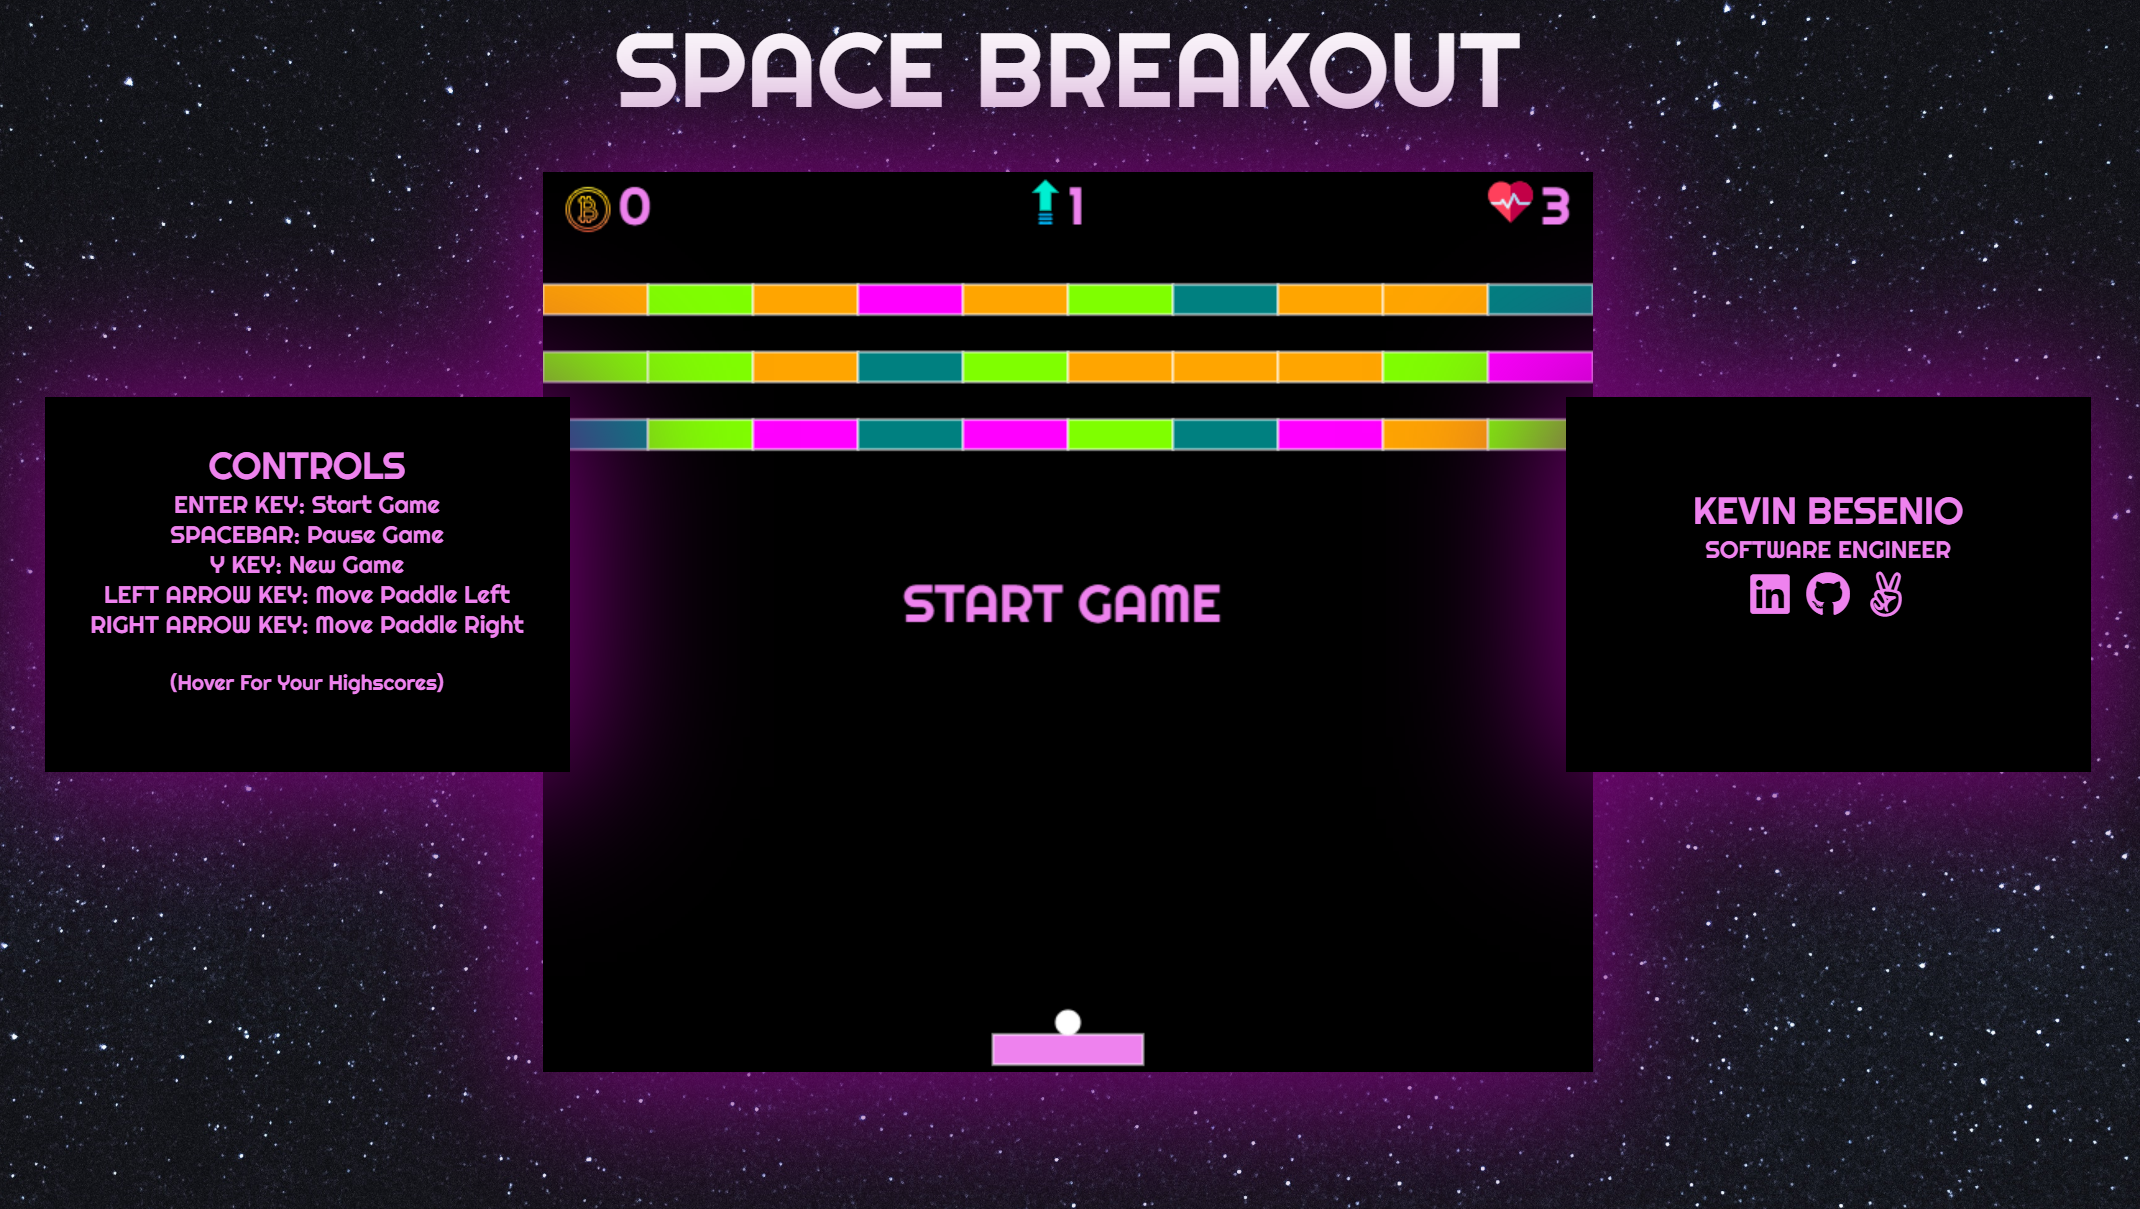
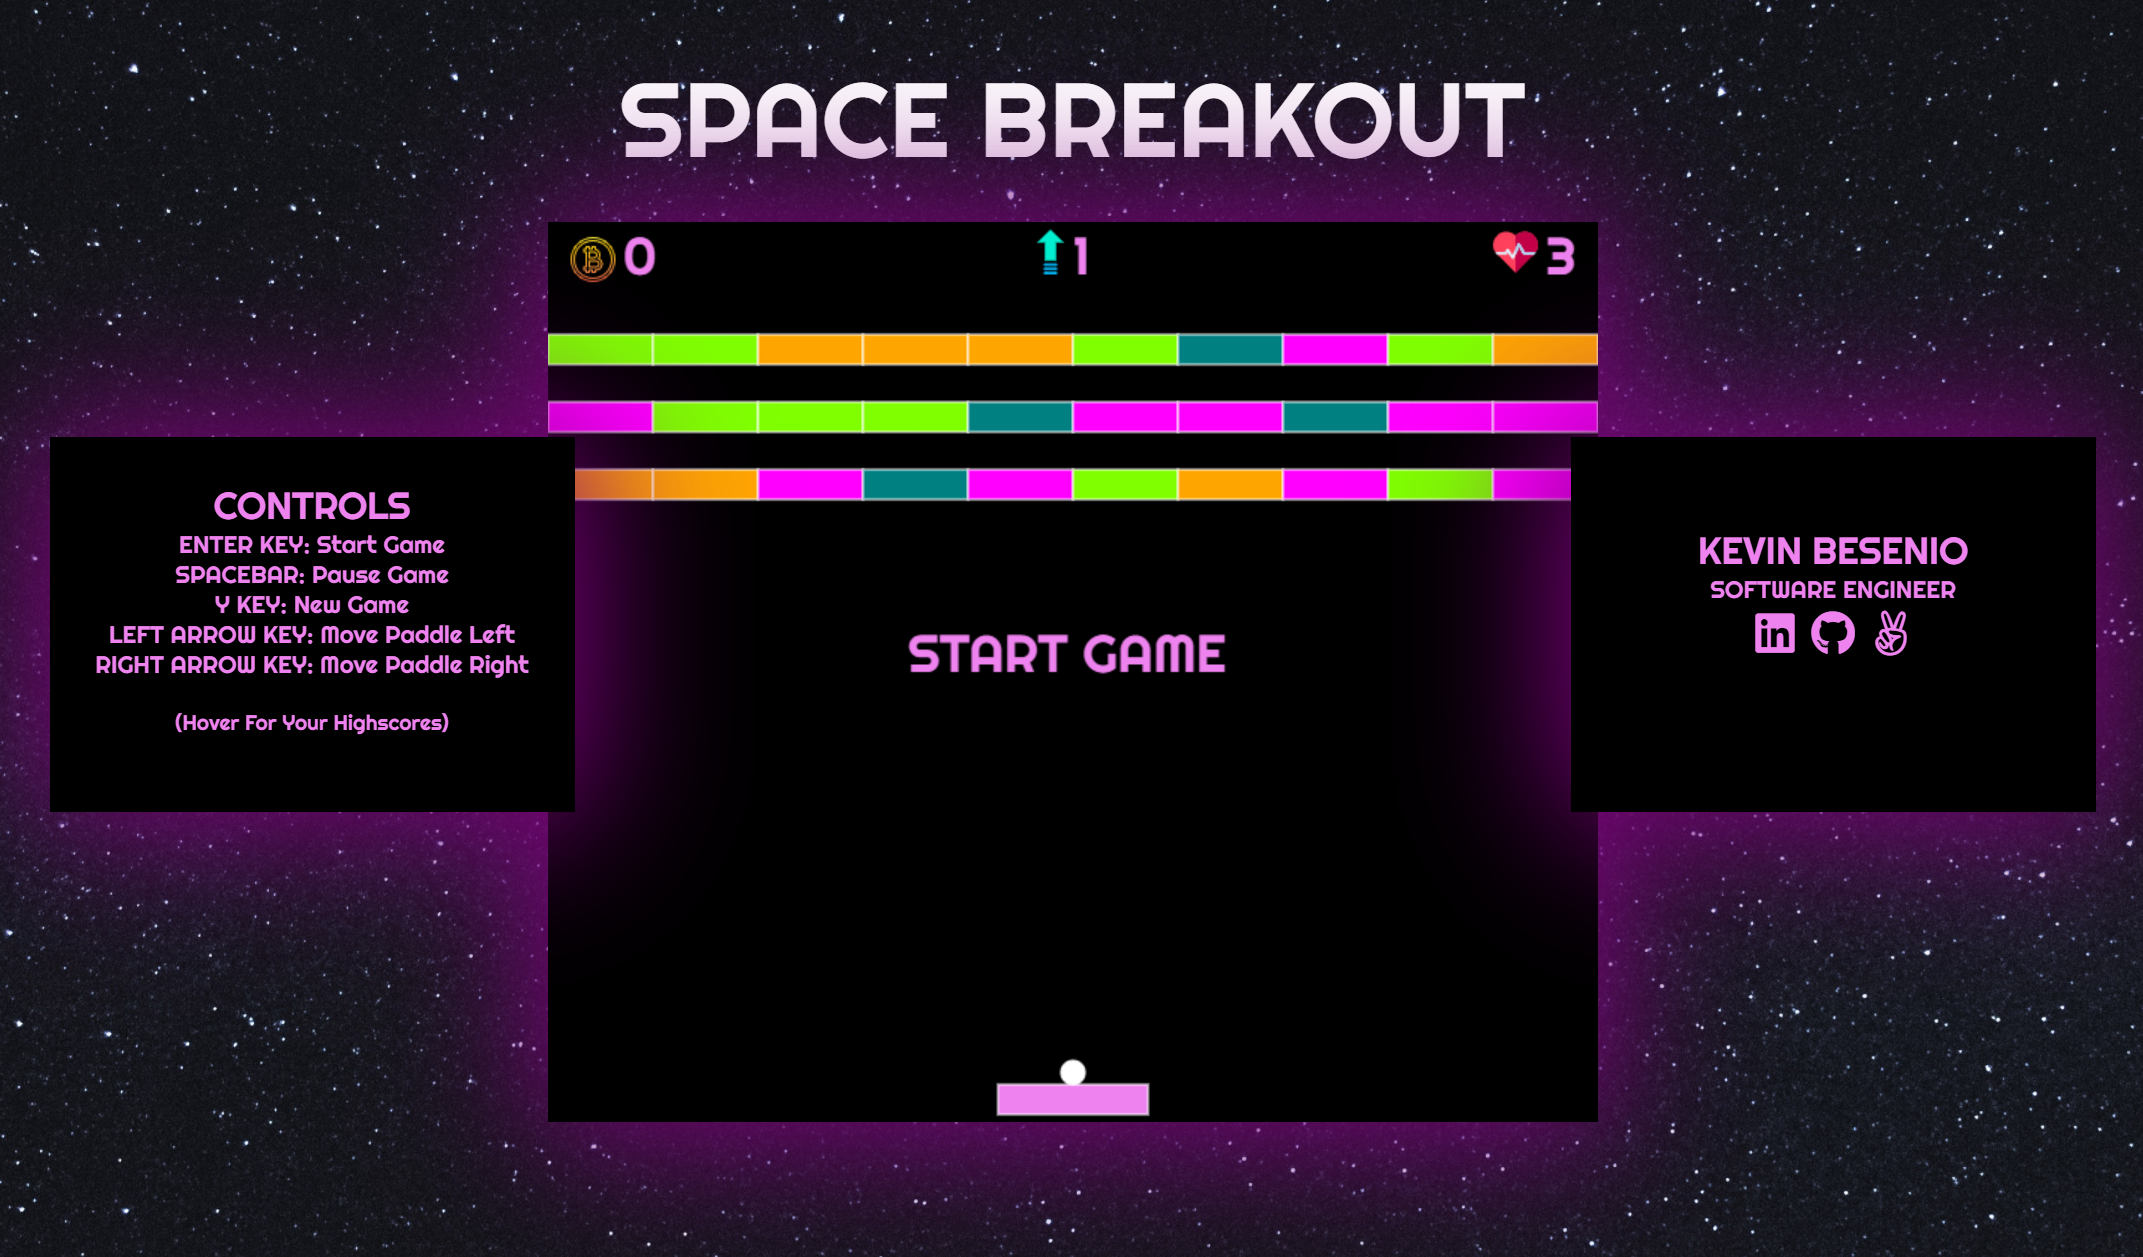
linkedin feature

diff --git a/game.css b/game.css
@@ -12,6 +12,7 @@ body {
    font-size: 70px;
    text-align: center;
    font-family: "Righteous";
+   margin-top: 50px;
 }
 
 #spacebreakout-ui {
@@ -20,7 +21,6 @@ body {
    margin: auto;
    margin-top: 25px;
    box-shadow: 0px 0px 100px 10px purple;
-   /* width: 40%; */
 }
 
 .information {
@@ -38,9 +38,9 @@ body {
    box-shadow: 0px 0px 100px 10px purple;
    font-size: 25px;
    text-align: center;
-   /* position: absolute; */
-   top: 200px;
-   left: 340px;
+   position: absolute;
+   top: 285px;
+   left: 375px;
    transition: transform 3s;
    transform-style: preserve-3d;
 }
@@ -59,9 +59,9 @@ body {
    box-shadow: 0px 0px 100px 10px purple;
    font-size: 25px;
    text-align: center;
-   /* position: absolute; */
-   top: 200px;
-   right: 335px;
+   position: absolute;
+   top: 285px;
+   right: 370px;
    transition: transform 3s;
    transform-style: preserve-3d;
 }

diff --git a/game.js b/game.js
@@ -193,7 +193,7 @@ function ballReset() {
 }
 
 //GAME
-let LIVES = 1;
+let LIVES = 3;
 let SCORE = 0;
 let POINTS = 100;
 let LEVEL = 1;
